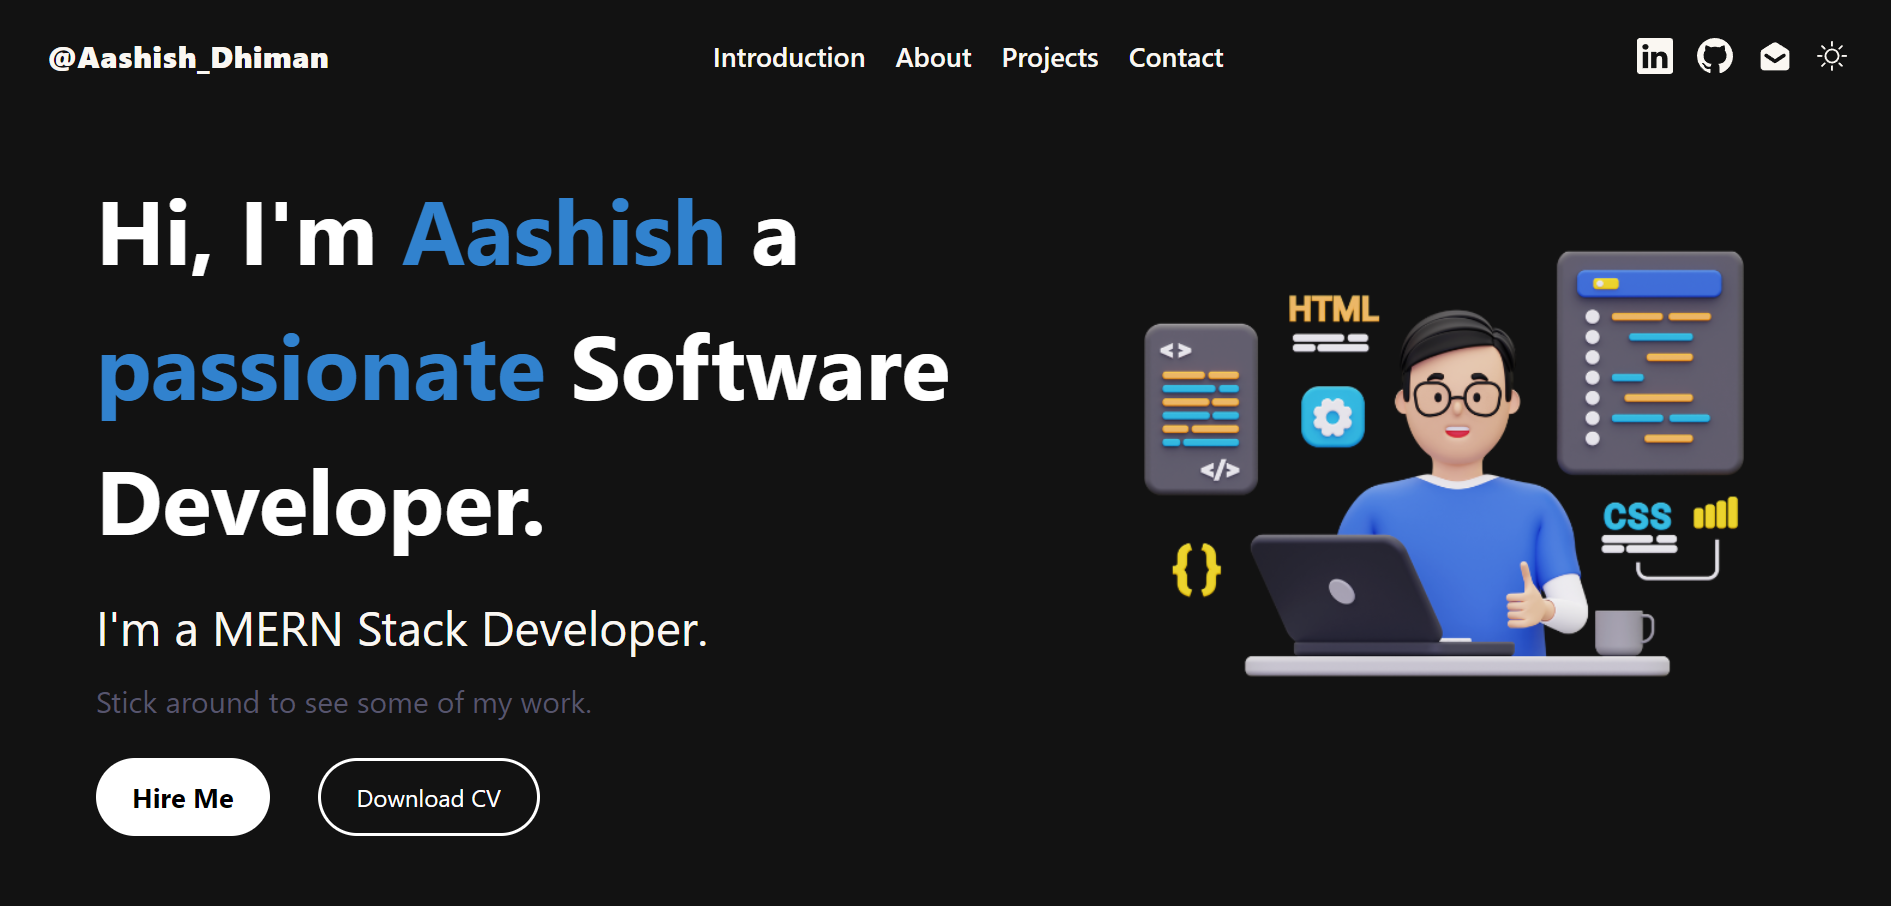
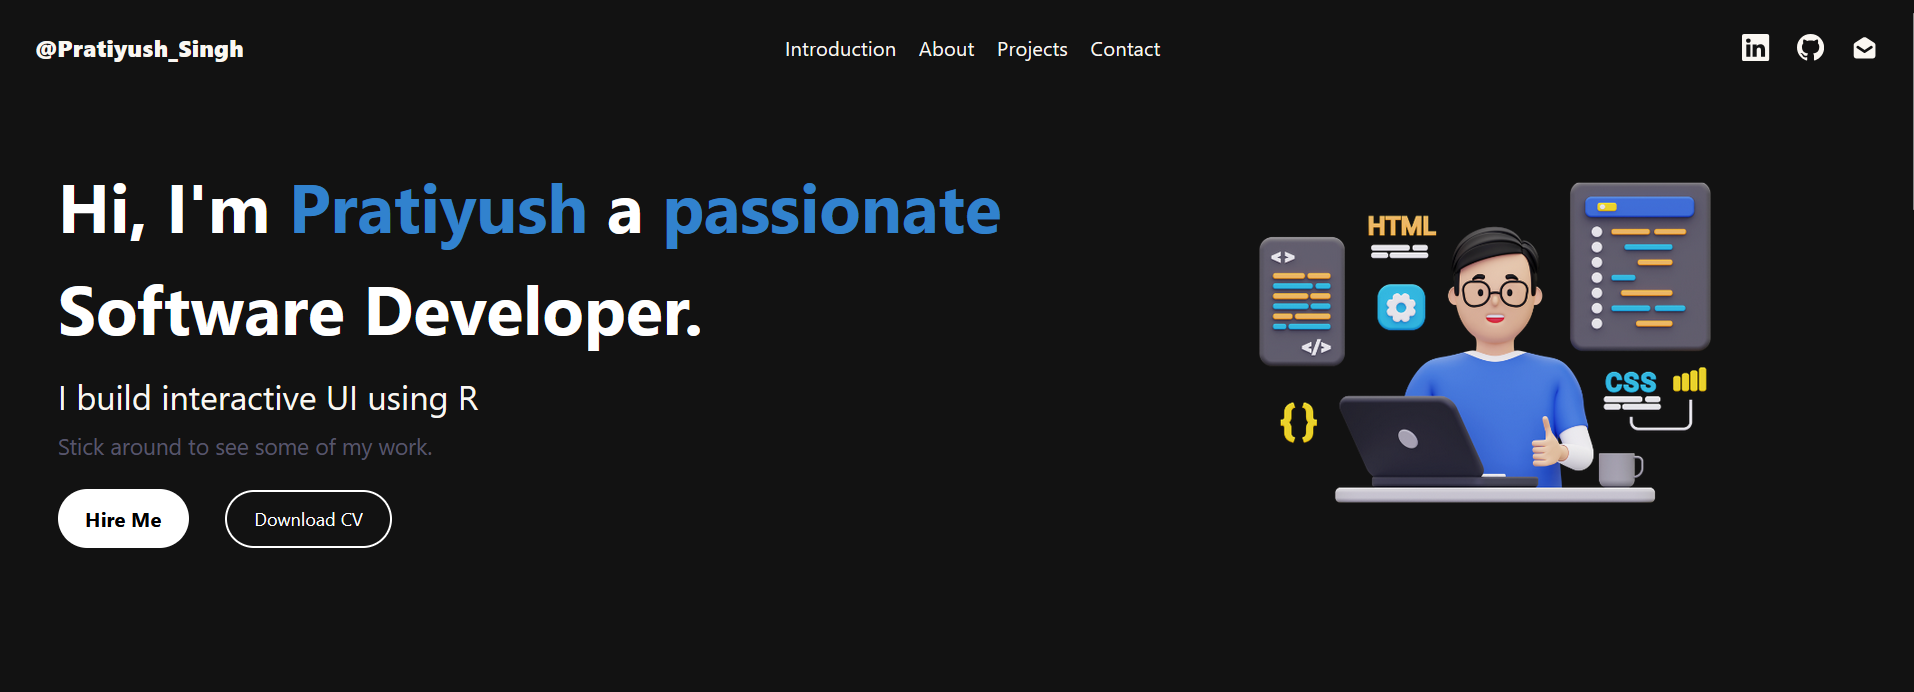
update portfolio details

diff --git a/src/components/About.jsx b/src/components/About.jsx
@@ -49,11 +49,11 @@ const About = () => {
                     animate={
                         inViewContent
                             ? {
-                                  opacity: 1,
-                                  x: 0,
-                                  scale: 1,
-                                  filter: "blur(0px)",
-                              }
+                                opacity: 1,
+                                x: 0,
+                                scale: 1,
+                                filter: "blur(0px)",
+                            }
                             : { opacity: 1, x: -100, scale: 0.8 }
                     }
                     transition={{ duration: 0.8 }}
@@ -154,6 +154,26 @@ const About = () => {
                                             <span>Pursuing</span>
                                         </span>
                                     </div>
+
+                                </motion.li>
+                                <motion.li
+                                    initial={{ opacity: 0 }}
+                                    animate={{ opacity: 1 }}
+                                    transition={{ duration: 1 }}
+                                >
+                                    <h5 className="text-2xl font-[600]">
+                                        Ducat Institute Noida Sec - 63
+                                    </h5>
+                                    <div className="mt-2 flex gap-4 items-center">
+                                        <div className="w-[15px] h-[2px] bg-textWhite "></div>
+                                        <span>
+                                            <p>
+                                                Full Stack Web Development
+                                            </p>
+                                            <span>Completed</span>
+                                        </span>
+                                    </div>
+
                                 </motion.li>
                             </ul>
                         ) : (
@@ -166,20 +186,23 @@ const About = () => {
                                     <h5 className="text-2xl font-[600]">
                                         Full Stack Engineer Intern{" "}
                                         <span className="text-base font-[500]">
-                                            - Four Step Digital
+                                            - Excellence Technosoft Pvt Ltd
                                         </span>
                                     </h5>
                                     <div className="mt-2 flex gap-4 items-center">
                                         <div className="w-[15px] h-[2px] bg-textWhite "></div>
                                         <span>
                                             <p>
-                                                Developing an AI-driven trading platform to facilitate streamlined stock analysis, integrating a financial chatbot and a comprehensive stock dashboard. Utilizing technologies such as Next.js, Typescript, Tailwind CSS, Shadcn UI, Web Socket and NextAuth for seamless functionality.
+                                                I have worked as a React.js and Node.js Developer at Excellence Technosoft Pvt Ltd., gaining 6 months experience. I
+                                                have also completed a certification in MERN Full Stack Development, which has further enhanced my skills in building
+                                                scalable and efficient web applications. During my tenure, I contributed to multiple projects, including Rake,
+                                                Conductly, and Best Prover.
                                             </p>
                                         </span>
                                     </div>
                                     <div className="ml-6 mt-1 text-gray-500 font-medium flex items-center justify-between max-w-[95%]">
                                         <span className="">
-                                            Jan 2024 - Present
+                                            Dec 2025 - Present
                                         </span>
                                         <span className="">Remote</span>
                                     </div>

diff --git a/src/constants/ProjectList.js b/src/constants/ProjectList.js
@@ -1,9 +1,7 @@
 import ecommerce from "../assets/projects/ecommerce.png";
-import discord from "../assets/projects/discord.png";
 import keeper from "../assets/projects/keeper.png";
-import authorisation from "../assets/projects/authorisation.png";
-import notion from "../assets/projects/notion.png";
-import shopwell from "../assets/projects/shopwell.png";
+import portfolio from "../assets/projects/portfolio.png";
+
 
 export const ProjectList = [
     {
@@ -11,28 +9,27 @@ export const ProjectList = [
         name: "E-Commerce",
         description:
             "Our ShopWell Ecommerce, built with MERN stack, revolutionizes online shopping. It provides secure user authentication, extensive product catalog, efficient cart management, and Stripe-powered payments. Users easily access order history, while admins have a dedicated dashboard. Responsive design, Bcrypt-secured passwords, and Cloudinary image storage ensure a seamless and secure shopping experience.",
-        img: shopwell,
-        //max 6 tech stack
+        img: ecommerce,
         tech: [
-            "React.js",
-            "Node.js",
-            "Express.js",
-            "MongoDB",
+            "Next.js",
+            "Schadcn UI",
             "Tailwind CSS",
+            "MongoDB",
+            "NodeMailer",
             "Stripe",
         ],
-        source: "https://github.com/Pratiyush2003/shopwell-frontend",
-        demo: "https://shopwell-frontend.vercel.app/",
+        source: "https://github.com/Pratiyush2003/next-js-shopping-app",
+        demo: "https://next-js-shopping-app-two.vercel.app/",
     },
     {
         id: 6,
-        name: "Keeper - Keep Your Notes",
+        name: "Portfolio Website",
         description:
-            "Inspired by Google Keep, Keeper is a note-taking website developed with React and adorned with Tailwind CSS and Material UI. It offers a user-friendly experience, allowing you to effortlessly create and manage notes. The responsive design ensures a seamless experience across all devices, making note-taking a breeze.",
-        img: keeper,
+            "This is my Portfolio website. It help me to shocase my skill and expertise its made up of react js and tailwind css Motion for Animation.",
+        img: portfolio,
         //max 6 tech stack
-        tech: ["Node.js", "Express.js", "React.js", "MongoDB", "Jwt"],
-        source: "https://github.com/Pratiyush2003/notes-app",
-        demo: "https://notes-app-o741.vercel.app/login",
+        tech: ["React.js", "MongoDB", "Jwt"],
+        source: "https://github.com/Pratiyush2003/port-pratiyush",
+        demo: "https://port-pratiyush.vercel.app/",
     },
 ];

diff --git a/src/components/Navbar.jsx b/src/components/Navbar.jsx
@@ -71,20 +71,20 @@ const Navbar = () => {
                                 </span>
                                 <div className="flex gap-4 p-6 border-b-white border-b-2 text-[22px]">
                                     <a
-                                        href="https://www.linkedin.com/in/aashish-dhiman/"
+                                        href="https://www.linkedin.com/in/pratiyushs-singh-380078276/"
                                         target="_blank"
                                         rel="noopener noreferrer"
                                     >
                                         <BsLinkedin />
                                     </a>
                                     <a
-                                        href="https://github.com/aashish-dhiman"
+                                        href="https://github.com/Pratiyush2003/"
                                         target="_blank"
                                         rel="noopener noreferrer"
                                     >
                                         <BsGithub />
                                     </a>
-                                    <a href="mailto:aashishdhiman88@gmail.com">
+                                    <a href="mailto:pratiyushs85@gmail.com">
                                         <HiMailOpen />
                                     </a>
                                 </div>

diff --git a/src/components/Contact.jsx b/src/components/Contact.jsx
@@ -87,7 +87,7 @@ const Contact = () => {
                         I&apos;m actively seeking new opportunities, and I
                         welcome your messages. Whether you have inquiries or
                         simply want to say hello, feel free to reach out. <br />
-                        I&apos;ll try my best to get back to you!
+                       Mail Id : pratiyushs85@gmail.com
                     </p>
                     <div className="flex flex-row gap-5 mt-6">
                         <a
@@ -102,7 +102,7 @@ const Contact = () => {
                             </span>
                         </a>
                         <a
-                            href="https://www.linkedin.com/in/pratiyush-singh-7435172b0/"
+                            href="https://www.linkedin.com/in/pratiyushs-singh-380078276/"
                             className="relative group hover:-translate-y-[2px] transition-all duration-500 ease-in-out "
                             target="_blank"
                             rel="noopener noreferrer"

diff --git a/src/components/HeroSection.jsx b/src/components/HeroSection.jsx
@@ -75,7 +75,7 @@ const HeroSection = () => {
                                 Hire Me
                             </ScrollLink>
                             <a
-                                href="https://red-sandra-72.tiiny.site"
+                                href="https://drive.google.com/file/d/1stdrfp4OrOyPCxaM1ZutoXJfcyynkzY0/view"
                                 target="_blank"
                                 rel="noopener noreferrer"
                                 className="px-6 py-3 w-full sm:w-fit rounded-full md:mr-4 bg-transparent border-white border-2 text-white text-center hover:bg-darkHover hover:scale-[0.99] transition-all duration-400 ease-in-out "
